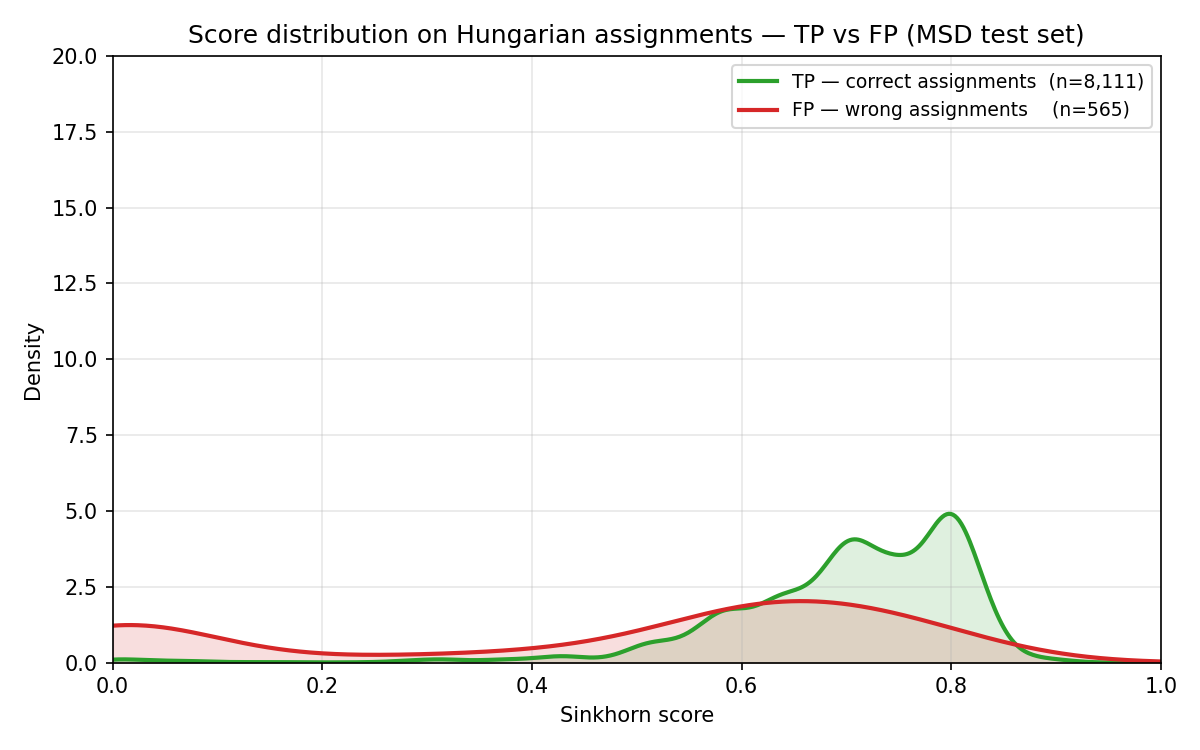
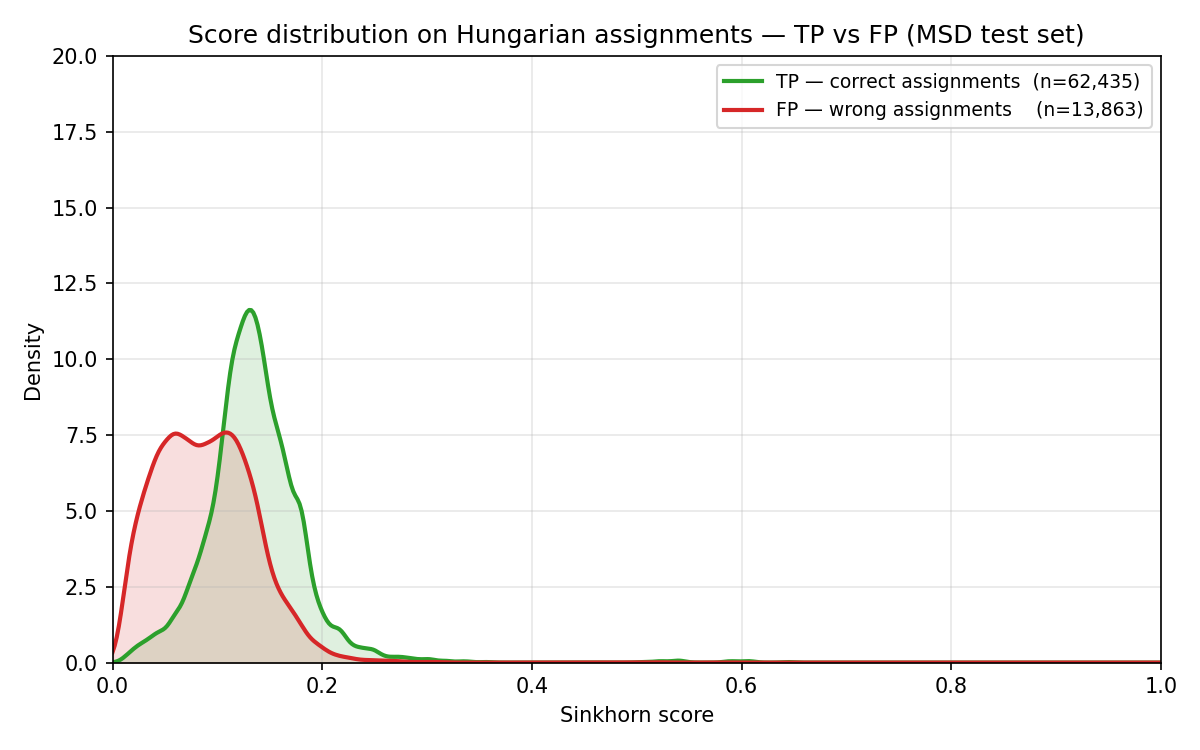
[FIX]

Changed region(s): [[0.0925, 0.3987, 0.9558, 0.8893], [0.6475, 0.092, 0.9558, 0.1533], [0.5858, 0.092, 0.6167, 0.1533]]

diff --git a/graph_matching/matching_synthetic_dataset.py b/graph_matching/matching_synthetic_dataset.py
@@ -23,6 +23,10 @@ USE_PGM = True
 DATASET = "msd"
 
 
+# MSD split to evaluate — pick one: "train", "valid", "test"
+SPLIT = "valid"
+
+
 # Noise condition for MSD dataset — pick one:
 #   "ws_dropout_noise"        → WS noise only
 #   "room_dropout_noise"      → Room noise only
@@ -66,7 +70,7 @@ ACC_THRESHOLD = None # e.g. -1.0, 0.0, 1.0 — None disables
 # and averages the soft matrices before Hungarian. Also stores per-entry
 # uncertainty (std across passes) in experiment results.
 # Set to 0 to disable (standard single-pass inference).
-MC_SAMPLES = 0# e.g. 10, 30, 50
+MC_SAMPLES = 0  # e.g. 10, 30, 50
 
 
 # MC Dropout std threshold (PGM only, requires MC_SAMPLES > 0).
@@ -74,8 +78,8 @@ MC_SAMPLES = 0# e.g. 10, 30, 50
 # are zeroed before Hungarian, filtering candidates the model was inconsistent about.
 # Set to None to disable.
 # STD_THRESHOLD = 0.417  # best F1 threshold found from plot_results.py --mc-dropout (with mc_samples=30)
-STD_THRESHOLD = 0.442  # best F1 threshold found from plot_results.py --mc-dropout (with mc_samples=10)
-# STD_THRESHOLD = None
+#STD_THRESHOLD = 0.442  # best F1 threshold found from plot_results.py --mc-dropout (with mc_samples=10)
+STD_THRESHOLD = None
 
 
 # MC Dropout on the affinity matrix (PGM only).
@@ -812,7 +816,7 @@ GNN_PATH = '/root/workspace/src/graph_matching_gnn/GNN'
 _pgm_noise = "ws_room_dropout_noise_inc" if USE_NEW_MODEL else NOISE_CONDITION
 _pgm_model_path = os.path.join(GNN_PATH, "models", "partial_graph_matching",
                                 "ws_room_dropout_noise_inc_BCE" if USE_NEW_MODEL else NOISE_CONDITION)
-MSD_TEST_PATH = os.path.join(GNN_PATH, "preprocessed", "partial_graph_matching", _pgm_noise, "test_dataset.pkl")
+MSD_TEST_PATH = os.path.join(GNN_PATH, "preprocessed", "partial_graph_matching", NOISE_CONDITION, f"{SPLIT}_dataset.pkl")
 MSD_ORIGINAL_PATH = os.path.join(GNN_PATH, "preprocessed", "graph_matching", "equal", "original.pkl")
 
 
@@ -841,7 +845,7 @@ all_metrics_data = []  # List of (n_nodes_s, n_nodes_a, metrics_dict)
 if DATASET == "msd":
     with open(MSD_TEST_PATH, 'rb') as f:
         msd_test_list = pickle.load(f)
-    print(f"MSD test set loaded: {len(msd_test_list)} pairs")
+    print(f"MSD {SPLIT} set loaded: {len(msd_test_list)} pairs")
 
 
     if USE_PGM:
@@ -879,7 +883,7 @@ if DATASET == "msd":
         total_gt_matches_aff = 0              # Affinity-MC: total GT matches across test set
 
 
-        for data1, data2, gt_perm in tqdm(msd_test_list, desc="MSD matching", colour="green"):
+        for data1, data2, gt_perm in tqdm(msd_test_list, desc=f"MSD {SPLIT} matching", colour="green"):
             results = run_pgm_msd_experiment(pgm_model_instance, data1, data2, gt_perm, sinkhorn_threshold=SINKHORN_THRESHOLD, score_threshold=SCORE_THRESHOLD, acc_threshold=ACC_THRESHOLD, mc_samples=MC_SAMPLES, std_threshold=STD_THRESHOLD, mc_affinity_samples=MC_AFFINITY_SAMPLES, affinity_std_threshold=AFFINITY_STD_THRESHOLD)
 
 
@@ -931,7 +935,7 @@ if DATASET == "msd":
             n = len(msd_metrics)
             avg = lambda key: np.mean([m[key] for m in msd_metrics if key in m])
             print("\n" + "="*60)
-            print(f"MSD SUMMARY ({n} pairs)")
+            print(f"MSD {SPLIT.upper()} SUMMARY ({n} pairs)")
             print("="*60)
             print(f"Precision : {avg('precision'):.4f}")
             print(f"Recall    : {avg('recall'):.4f}")

diff --git a/graph_matching/graph_matching_node.py b/graph_matching/graph_matching_node.py
@@ -1748,7 +1748,7 @@ def main(args=None):
     graph_matching_node = GraphMatchingNode()
 
     # Debug mode: load saved graphs and run matching without waiting for ROS messages
-    debug_offline = False  # Set to True to enable offline debug mode with saved pickles
+    debug_offline = True  # Set to True to enable offline debug mode with saved pickles
     if debug_offline:
         graph_matching_node.load_all_pickle_graphs()
 
